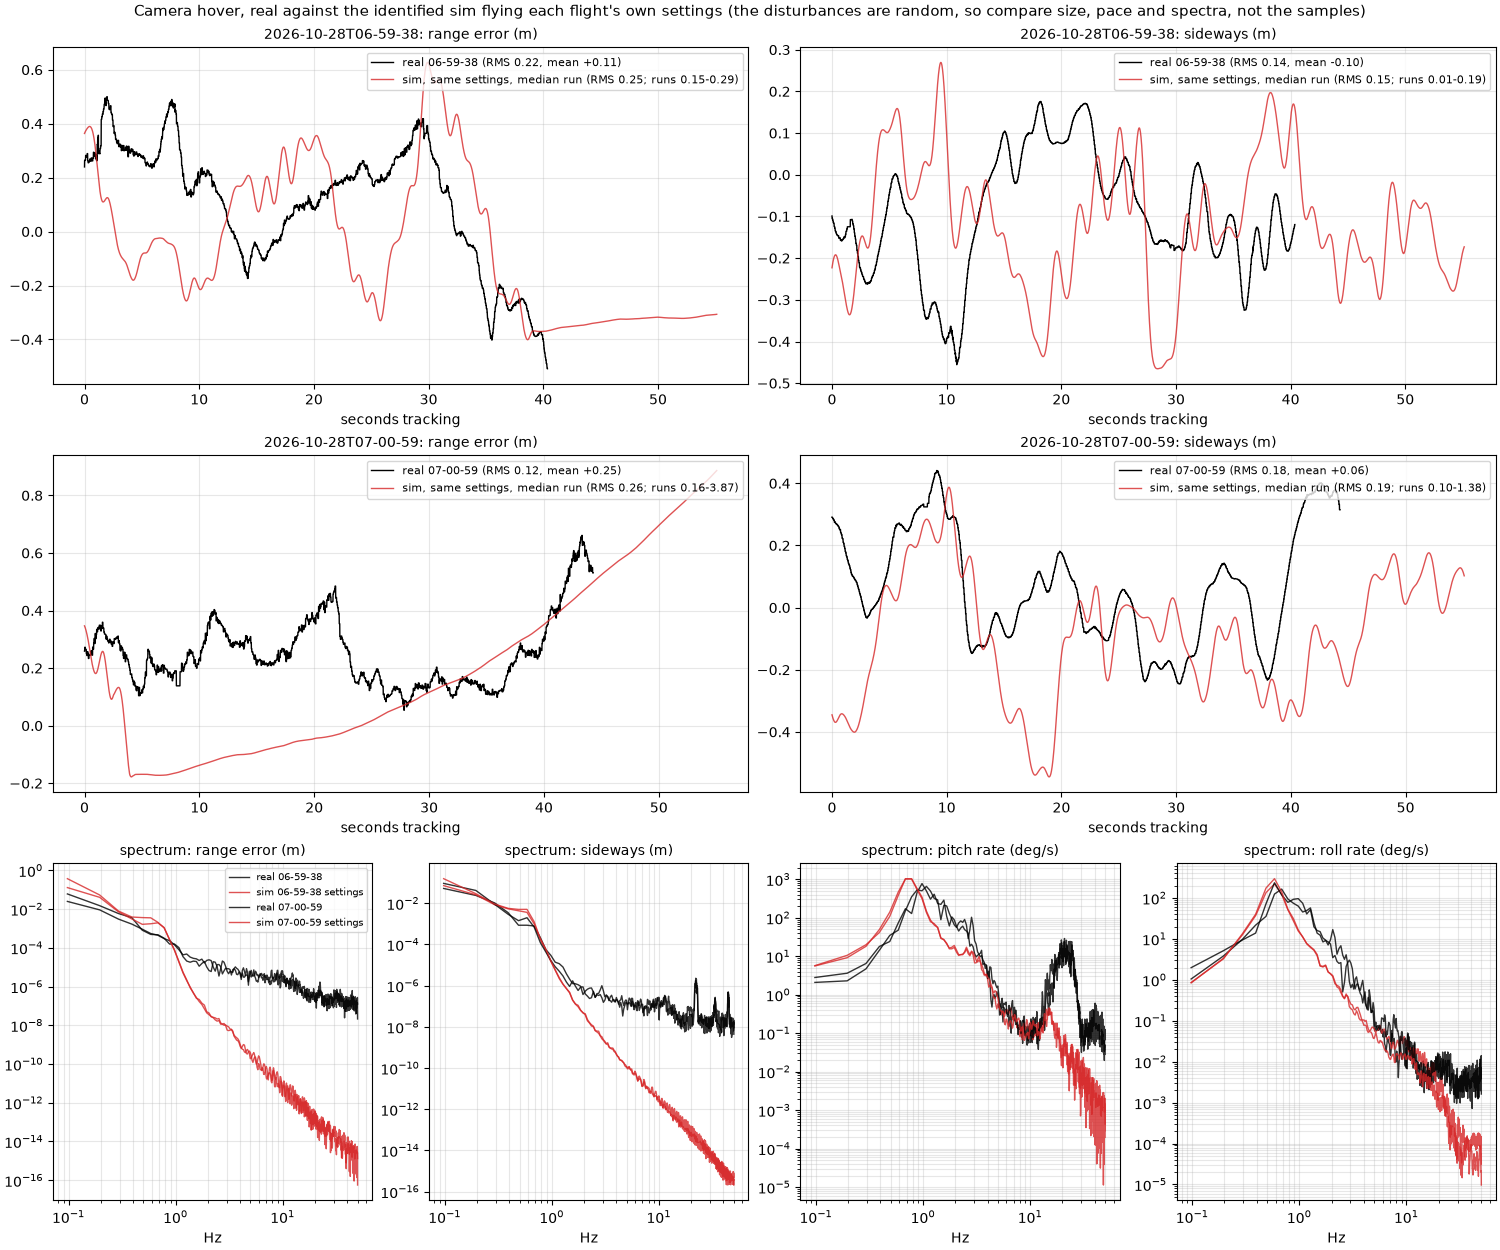
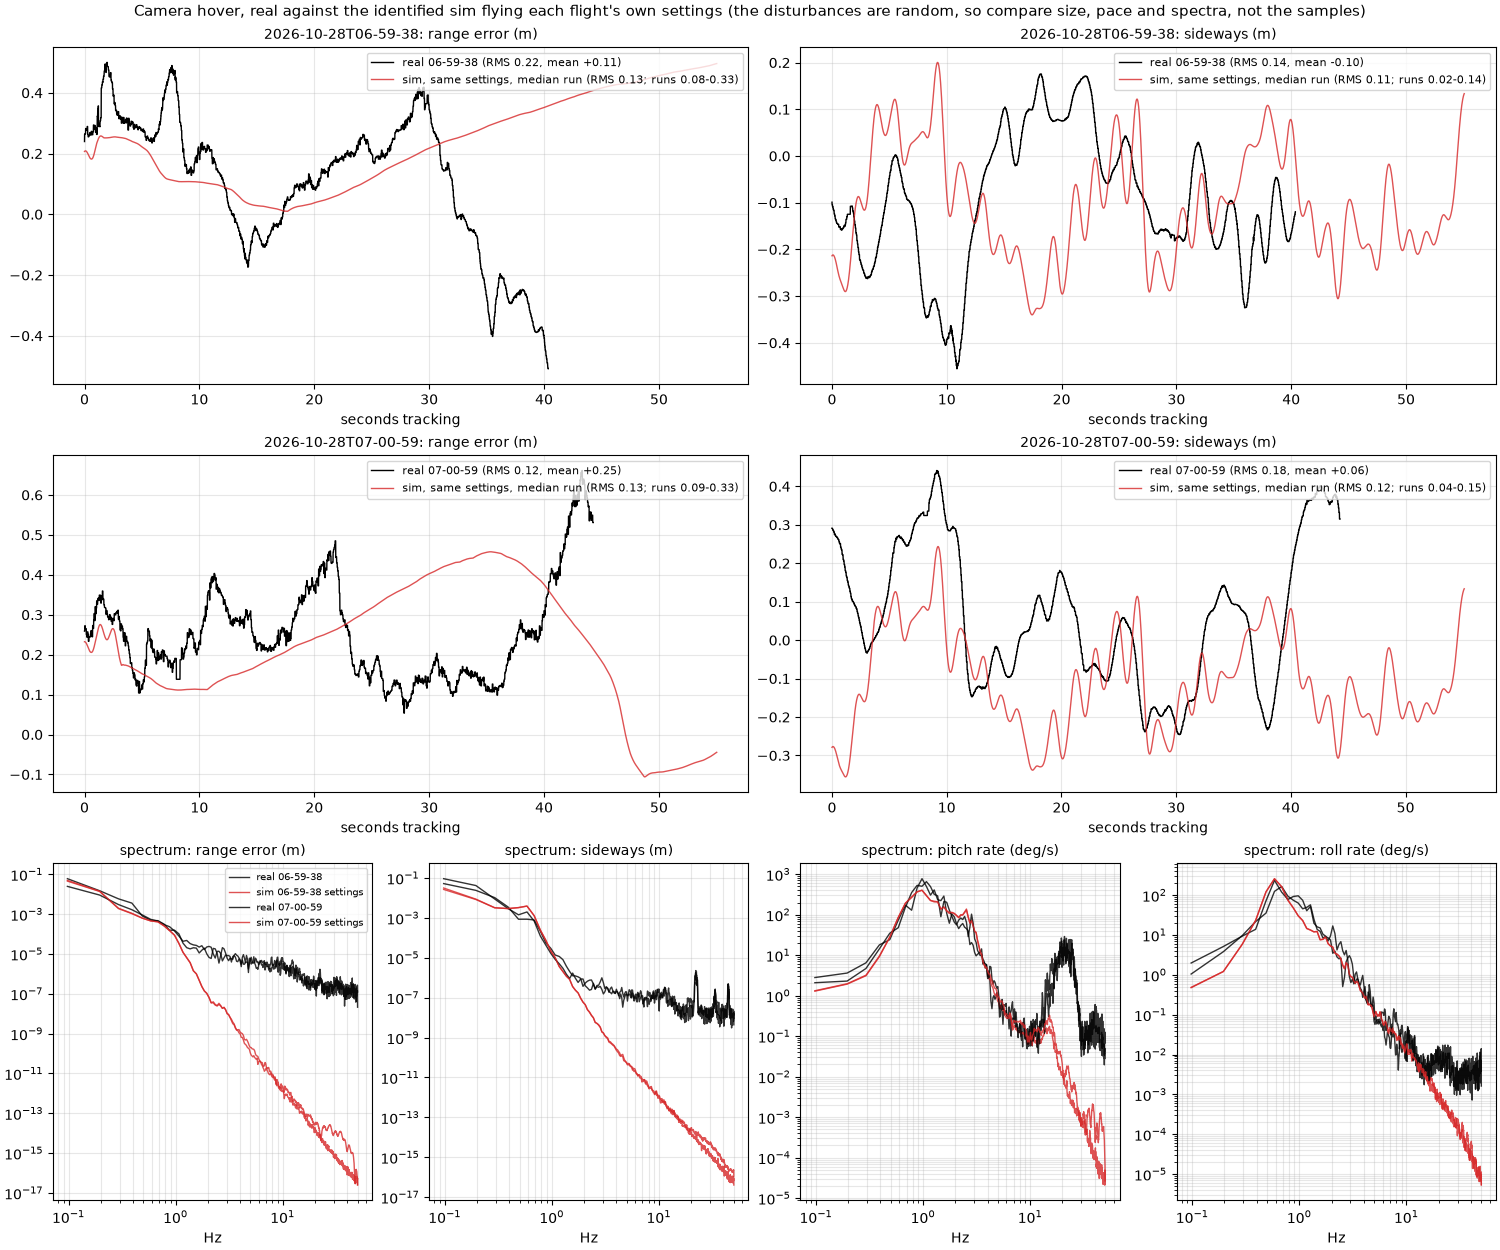
Sim calibrated to the hovers' closed-loop spectra: pitch effectiveness 1.14 swung / 0.38 held (pitch_wake -0.76 lagging 1.27 s), torque drifts nearly white; the sim's pitch wobble now peaks at 1 Hz like the real one (band RMS 1.78/2.20/1.02° against 1.65/2.51/0.91, was 4.0/2.1/0.4) and held-out pitc
calibrate_sim also searches the lagged term's share and lag. Plots regenerated.

diff --git a/src/sw/sim/calibrate_sim.py b/src/sw/sim/calibrate_sim.py
@@ -1,7 +1,7 @@
 """
 Calibrate the hover sim to the real camera hovers' closed-loop behaviour: uv run --with scipy --with cma -m sw.sim.calibrate_sim [--generations 30] [--workers 90]
 
-identify_airframe fits the airframe to short-horizon prediction, which the attitude controller's feedback dominates: it pins the plant above about 2 Hz but barely constrains its low-frequency gain, while fit_disturbances only sizes the torque residual's drift. Flown in closed loop, the sim then wobbles at the wrong frequency (0.7 Hz in pitch against the real 0.9-1 Hz). This CMA-ES search sets what both leave loose so that the sim flying each camera hover's settings (sweep.run with hover=True) matches the hover's statistics: the pitch and roll attitude spectra in three bands (0.3-0.8, 0.8-1.5, 1.5-3 Hz), the range error and sideways RMS and how fast they fade. Searched: scales on the pitch effectiveness (pitch_tilt and pitch_wake together) and roll effectiveness, and on the calibrated disturbances (roll and pitch torque drift size and correlation time, force drift size). The prediction error on the logs (identify_airframe's closed-loop free runs at 250 ms, 500 ms and 1 s, all flights) is kept within reach by a penalty on its growth. Writes the scaled airframe and disturbances next to the sources (--out-airframe, --out-disturbances).
+identify_airframe fits the airframe to short-horizon prediction, which the attitude controller's feedback dominates: it pins the plant above about 2 Hz but barely constrains its low-frequency gain, while fit_disturbances only sizes the torque residual's drift. Flown in closed loop, the sim then wobbles at the wrong frequency (0.7 Hz in pitch against the real 0.9-1 Hz). This CMA-ES search sets what both leave loose so that the sim flying each camera hover's settings (sweep.run with hover=True) matches the hover's statistics: the pitch and roll attitude spectra in three bands (0.3-0.8, 0.8-1.5, 1.5-3 Hz), the range error and sideways RMS and how fast they fade. Searched: scales on the pitch effectiveness (pitch_tilt and pitch_wake together), on the lagged share (pitch_wake) and its lag, and on the roll effectiveness, and on the calibrated disturbances (roll and pitch torque drift size and correlation time, force drift size). The prediction error on the logs (identify_airframe's closed-loop free runs at 250 ms, 500 ms and 1 s, all flights) is kept within reach by a penalty on its growth. Writes the scaled airframe and disturbances next to the sources (--out-airframe, --out-disturbances).
 """
 
 import argparse
@@ -31,9 +31,9 @@ SETTLE, LANDING = 4.0, 4.0
 BANDS = ((0.3, 0.8), (0.8, 1.5), (1.5, 3.0))
 SEEDS = 4
 # Searched: name, low, high, start (log-scaled except the correlation times).
-SPACE = (("pitch_gain", 0.7, 1.8, 1.0), ("roll_gain", 0.7, 2.5, 1.0), ("pitch_drift", 0.3, 3.0, 1.0), ("roll_drift", 0.3, 3.0, 1.0), ("pitch_tau", 0.1, 1.5, 0.7), ("roll_tau", 0.1, 1.5, 0.7), ("force_drift", 0.3, 3.0, 1.0))
+SPACE = (("pitch_gain", 0.7, 1.8, 1.0), ("wake_gain", 0.3, 3.0, 1.0), ("wake_tau", 0.2, 2.0, 0.74), ("roll_gain", 0.7, 2.5, 1.0), ("pitch_drift", 0.3, 3.0, 1.0), ("roll_drift", 0.3, 3.0, 1.0), ("pitch_tau", 0.1, 1.5, 0.7), ("roll_tau", 0.1, 1.5, 0.7), ("force_drift", 0.3, 3.0, 1.0))
 HORIZONS = (25, 50, 100)
-PENALTY = 2.0
+PENALTY = 4.0
 
 
 def bands(series):
@@ -73,7 +73,7 @@ def plant(x):
     """The sim plant for a point of SPACE."""
     v = dict(zip([s[0] for s in SPACE], x))
     airframe = IDENTIFIED_ESC["airframe"]
-    airframe = airframe | {"pitch_tilt": airframe["pitch_tilt"] * v["pitch_gain"], "pitch_wake": airframe.get("pitch_wake", 0.0) * v["pitch_gain"], "roll_thrust": airframe["roll_thrust"] * v["roll_gain"]}
+    airframe = airframe | {"pitch_tilt": airframe["pitch_tilt"] * v["pitch_gain"], "pitch_wake": airframe.get("pitch_wake", 0.0) * v["pitch_gain"] * v["wake_gain"], "wake_tau": v["wake_tau"], "roll_thrust": airframe["roll_thrust"] * v["roll_gain"]}
     terms = []
     for t in IDENTIFIED_ESC["disturbances"]:
         t = dict(t)
@@ -156,6 +156,7 @@ def main():
     parser.add_argument("--popsize", type=int, default=12)
     parser.add_argument("--seconds", type=float, default=60.0)
     parser.add_argument("--workers", type=int, default=os.cpu_count())
+    parser.add_argument("--start", default="", help="name=value,... to start the search from")
     parser.add_argument("--out-airframe", type=Path, default=MODELS / "airframe_2026-10-28_calibrated.json")
     parser.add_argument("--out-disturbances", type=Path, default=MODELS / "disturbances_2026-10-28_calibrated.json")
     args = parser.parse_args()
@@ -163,12 +164,13 @@ def main():
     target = [real(name) for name in HOVERS]
     names = ["pitch 0.3-0.8", "0.8-1.5", "1.5-3", "roll 0.3-0.8", "0.8-1.5", "1.5-3", "range", "side", "range fade", "side fade"]
     print("real   " + "  ".join(f"{n} {v:.2f}" for n, v in zip(names, np.mean(target, 0))), flush=True)
-    start = np.array([s[3] for s in SPACE])
+    given = dict((k, float(v)) for k, v in (item.split("=") for item in args.start.split(",") if item))
+    start = np.array([given.get(s[0], s[3]) for s in SPACE])
     low, high = np.array([s[1] for s in SPACE]), np.array([s[2] for s in SPACE])
     to_x = lambda u: np.exp(np.log(low) + (np.log(high) - np.log(low)) * np.clip(u, 0, 1))
     to_u = lambda x: (np.log(x) - np.log(low)) / (np.log(high) - np.log(low))
     with Pool(args.workers) as pool:
-        base_error = prediction(start)
+        base_error = prediction(np.array([s[3] for s in SPACE]))
         costs, details = evaluate(pool, [start], target, base_error, args.seconds)
         print(f"start: cost {costs[0]:.3f}, mismatch {details[0][0]:.3f} | " + "  ".join(f"{n} {v:.2f}" for n, v in zip(names, details[0][3])), flush=True)
         best = (costs[0], start, details[0])
@@ -187,7 +189,7 @@ def main():
     print("prediction error roll/pitch (°) " + "  ".join(f"{h * 10} ms {e[0]:.2f}/{e[1]:.2f} (was {b[0]:.2f}/{b[1]:.2f})" for h, e, b in zip(HORIZONS, errors, base_error)), flush=True)
     calibrated = plant(x)
     args.out_airframe.write_text(json.dumps({key: round(value, 6) if isinstance(value, float) else value for key, value in calibrated["airframe"].items()}, indent=1) + "\n")
-    args.out_disturbances.write_text(json.dumps(calibrated["disturbances"], indent=1) + "\n")
+    args.out_disturbances.write_text(json.dumps([{key: round(value, 3) if isinstance(value, float) else value for key, value in t.items()} for t in calibrated["disturbances"]], indent=1) + "\n")
     print(f"saved {args.out_airframe} and {args.out_disturbances}: " + ", ".join(f"{s[0]} {v:.3g}" for s, v in zip(SPACE, x)), flush=True)
 
 

diff --git a/src/sw/sim/models/NOTES.md b/src/sw/sim/models/NOTES.md
@@ -142,6 +142,8 @@ All checks use only the recorded flights; nothing here is a new physical measure
 
 The refit also moved roll, and the roll data cannot settle it. Roll effectiveness is 0.43 with 48/64 ms motor lag, where the previous fit had 0.93 with 110/122 ms (and 2026-10-27's, before the ESC recalibration, 1.34). Each pairs with its own damping and they predict hover nearly alike (held to the previous roll values, the fit cannot improve at all: cost 2403 against 2072). For hover-sized commands only the combination matters, but righting and flipping are set by the authority, so recover.randomization spans roll effectiveness ×0.8–2.2 around the new value, covering both fits. Held at the previous roll values, the tuned recovery and flip were unchanged by the pitch term and the refit disturbances. Disturbances refit on this model (fit_disturbances.py) and calibrated as before so the camera hovers' statistics match (models/disturbances_2026-10-28_calibrated.json: roll ×0.9, pitch ×1.1 and yaw ×0.6 of the fitted torque drifts with 0.7 s correlation in roll and pitch, force drifts ×0.5): range error RMS 0.21 against 0.20 m, its fading time 1.8 against 2.0 s, sideways 0.18 against 0.17 m fading in 1.9 against 1.8 s, pitch rate 22.6 against 23.4 deg/s and roll rate 9.0 against 9.7.
 
+**Calibrated to the hovers' closed-loop spectra (calibrate_sim.py, 2026-10-28).** Short-horizon prediction is dominated by the attitude controller's feedback, so it pins the airframe above about 2 Hz but leaves its low-frequency gain loose: flown in closed loop, the sim above wobbled in pitch at 0.7 Hz against the real 0.9–1 Hz (band RMS 4.0/2.1/0.4° in 0.3–0.8/0.8–1.5/1.5–3 Hz against 1.65/2.5/0.9), and no hover gain, camera or force-disturbance change moved it; raising the pitch effectiveness did. calibrate_sim fits the pitch effectiveness, the lagged term's share and lag, the roll effectiveness and the disturbances' drift sizes and correlation times so that the sim flying each camera hover's settings matches its pitch and roll spectra and its position statistics, with a penalty on prediction error growth. Result: pitch_tilt 1.14 with pitch_wake −0.76 lagging 1.27 s (the tilt is 1.14 as effective swung and 0.38 held), roll unchanged, torque drifts nearly white (0.1 s correlation), force drifts ×0.7. Pitch bands 1.78/2.20/1.02° against 1.65/2.51/0.91. Prediction improves at every horizon, held out by flight (identify_airframe refit from the calibrated point, which stays there: pitch_tilt 1.14, pitch_wake −0.76, wake_tau 1.0, fit cost 2081 against 2072): pitch 3.48° at 250 ms, 3.18° at 500 ms, 2.91° at 1 s (was 3.56/4.07/3.05), roll unchanged. Plots: models/airframe_prediction_2026-10-28.png (1 s free runs over the logs) and models/hover_prediction_2026-10-28.png (camera hover traces and spectra). Remaining: the sim's position wanders more smoothly than the real one (less 0.5–2 Hz range jitter), roll has 35% too much 0.3–0.8 Hz motion, and the real hover's trim saturated at hover_trim_max (07-00-59 held 0.26 m back), which the sim's push does not reach. The recovery and flip params were tuned on the plant before this calibration (pitch_tilt 0.71) and are parked there.
+
 **Full-attitude sim in the air (validate_rigid.py).** rigid.py flown in closed loop from the same starts, with no random disturbances or sensor noise, matches the airframe model to within 0.1° up to 500 ms. At 1 s its pitch error is 3.7° against the model's 3.1°, and yaw R² 0.28 against 0.34. About a third of that gap is the horizontal drag: rigid.py uses the drag calibrated from the camera's position statistics (0.58, 0.34 per s), the airframe model its own velocity fit (1.17, 0.68). Battery sag and the thrust-scaled flying terms change nothing. Limits: hover-like flight only (attitudes within about 20°, the range the flights covered); the aggressive states of recovery and flips are extrapolation. Beyond that range rigid.py keeps the airframe model's attitude and speed terms at what hover measured: tilt clipped to 0.6 rad and faded out by 90°, body-plane speed clipped to 1.5 m/s with the same fade. Before this, those terms (roll stiffness −13 rad/s² per rad, speed moments up to 6 rad/s² per m/s, fed a fall's speed) righted an uncontrolled inverted drone by themselves; now it tumbles. The hover-range validation above is unchanged by it.
 
 **Ground contact (validate_contact.py).** 500 motors-off touchdowns (vertical 0.3–2 m/s, horizontal 0–2 m/s, tilt 0–40° in roll or pitch, sliding toward or away from the low side) in rigid.py and in MuJoCo's own contact physics with the same body and contact points. They agree on which landings end upright in 100% of cases (97% with the CAD inertia). The legless belly tips on this grid only when pitched 40° nose-down while sliding forward at 1–1.5 m/s or more. Peak contact forces in rigid.py are about 1.7× MuJoCo's on level drops; GROUND_K 650 / GROUND_C 25 would match them, but neither engine's stiffness is measured, so force thresholds are only a loose backstop to the touchdown-speed limit.
